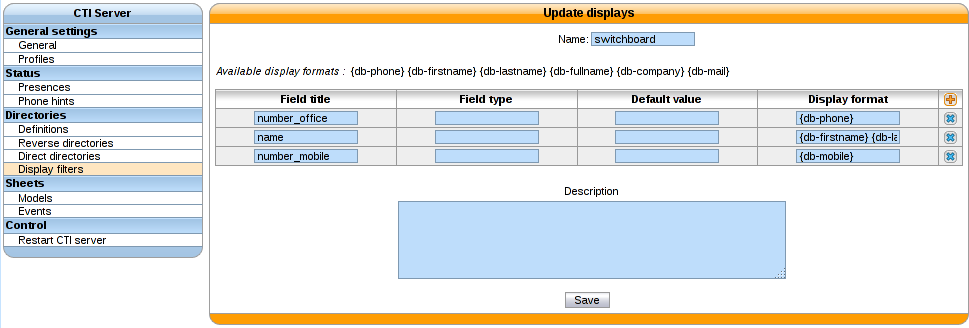
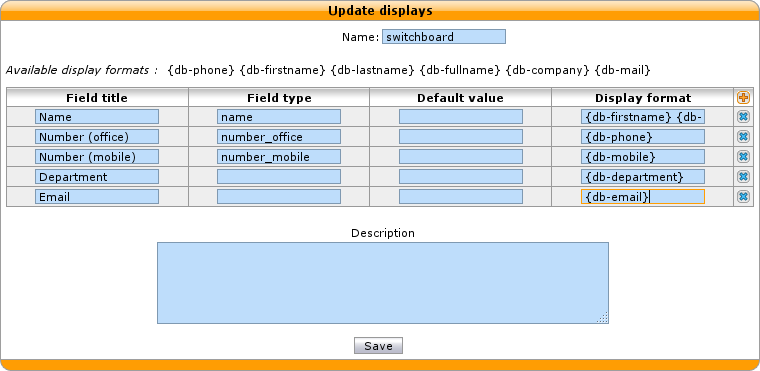
add documentation on configuring display filter for directory xlet

diff --git a/source/cti_client/xlets/directory.rst b/source/cti_client/xlets/directory.rst
@@ -51,15 +51,36 @@ A new display filter must be created for the directory xlet.
 
 .. figure:: ./images/directory_display_filter.png
 
-The following fields must be configurered for entries to be displayed in the xlet:
+The following fields must be configurered with the correct value for the *Field type* column in order for entries to be displayed in the xlet:
 
 #. *name* is displayed in the *Name* column of the xlet
 #. *number_office* is displayed in the *Number* column with a phone icon in the xlet
 #. *number_mobile* is displayed in the *Number* column with a mobile icon in the xlet
 #. *number_...* any other field starting with *number_* will be displayed in the *Number* column of the xlet with a generic directory icon
 
-The values in the *Display format* column contain values that are created in the *Directory Definition*
+The values in the *Display format* column must contain values that were created in the *Directory Definition*
 
+Additional fields without a field type will also be searched when filtering. However, these fields
+will not appear in the xlet. They will only be used for filtering results.
+
+For example, let us imagine that we have the following data in our directory definition:
+
++--------------+-----------------+-----------------+------------+-----------------------+
+| Name         | Number (office) | Number (mobile) | Department | Email                 |
++==============+=================+=================+============+=======================+
+| Dave Hubert  | 900             | 555-1234        | Sales      | dave@sales.com        |
++--------------+-----------------+-----------------+------------+-----------------------+
+| Martha Smith | 800             | 555-2345        | Management | martha@management.com |
++--------------+-----------------+-----------------+------------+-----------------------+
+
+When typing "sales" in the search bar, the fields
+"Name", "Department" and "Email" will be searched and Dave Hubert will appear in the list,
+but only the columns "Name and "Number" will be displayed.
+
+.. warning::
+
+    Make sure that the fields entered in the display format are also available
+    in the directory definition, otherwise the filter will not return any results
 
 Context and filter association
 ^^^^^^^^^^^^^^^^^^^^^^^^^^^^^^
